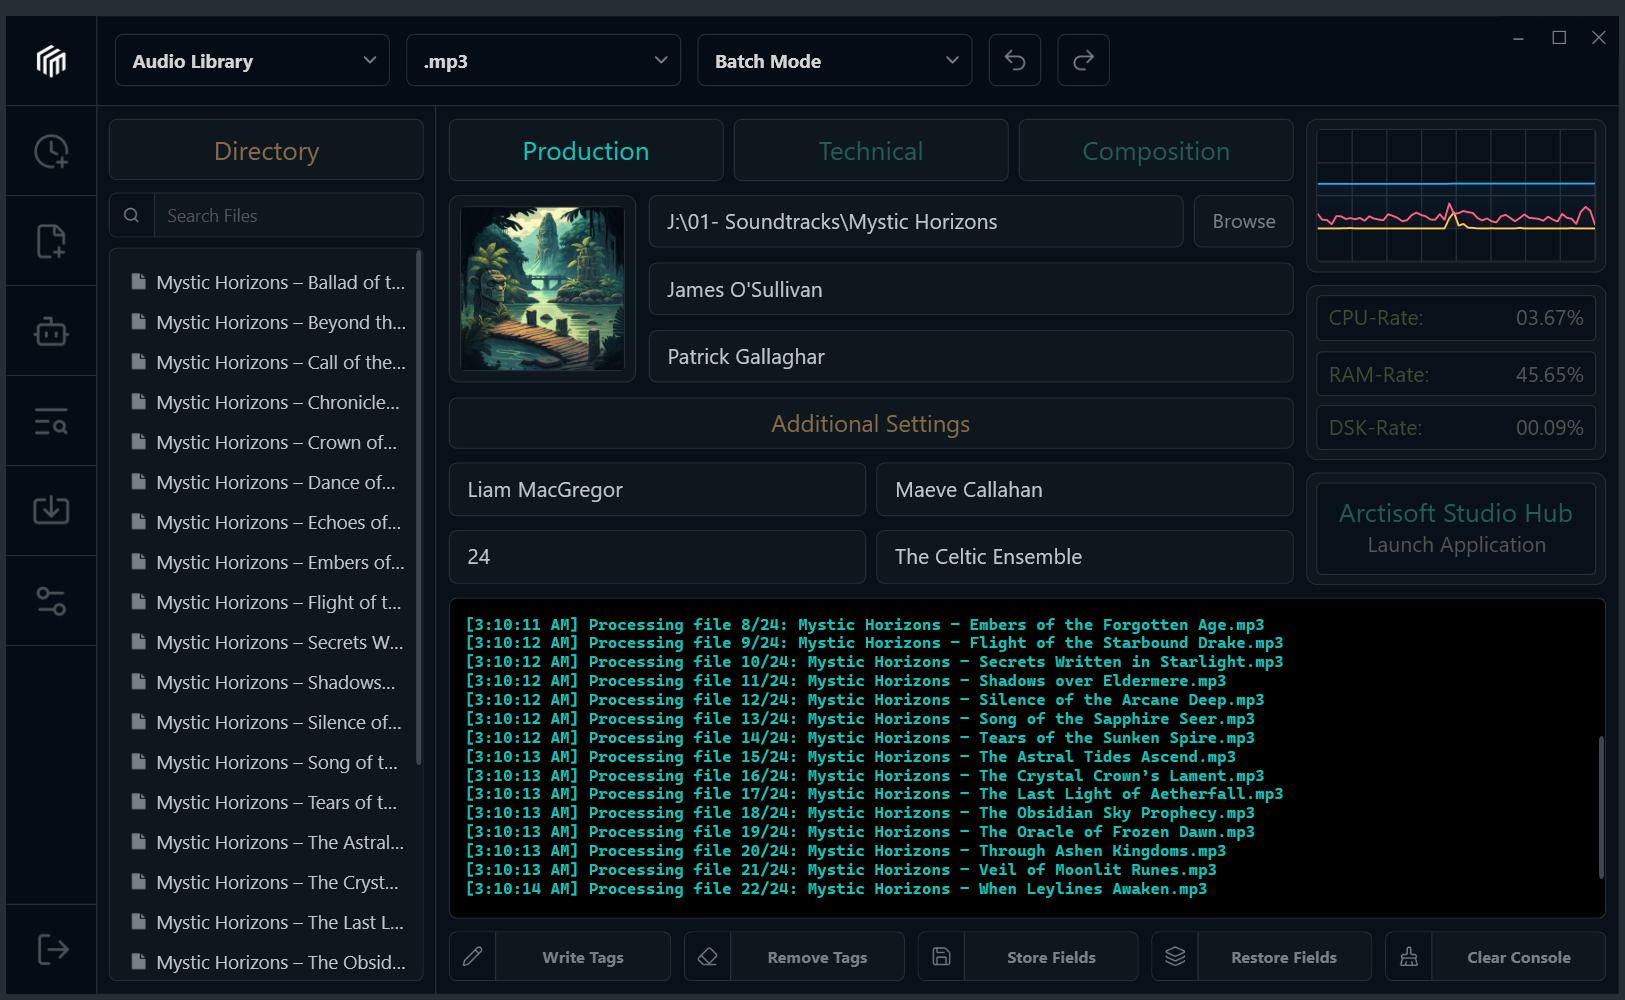
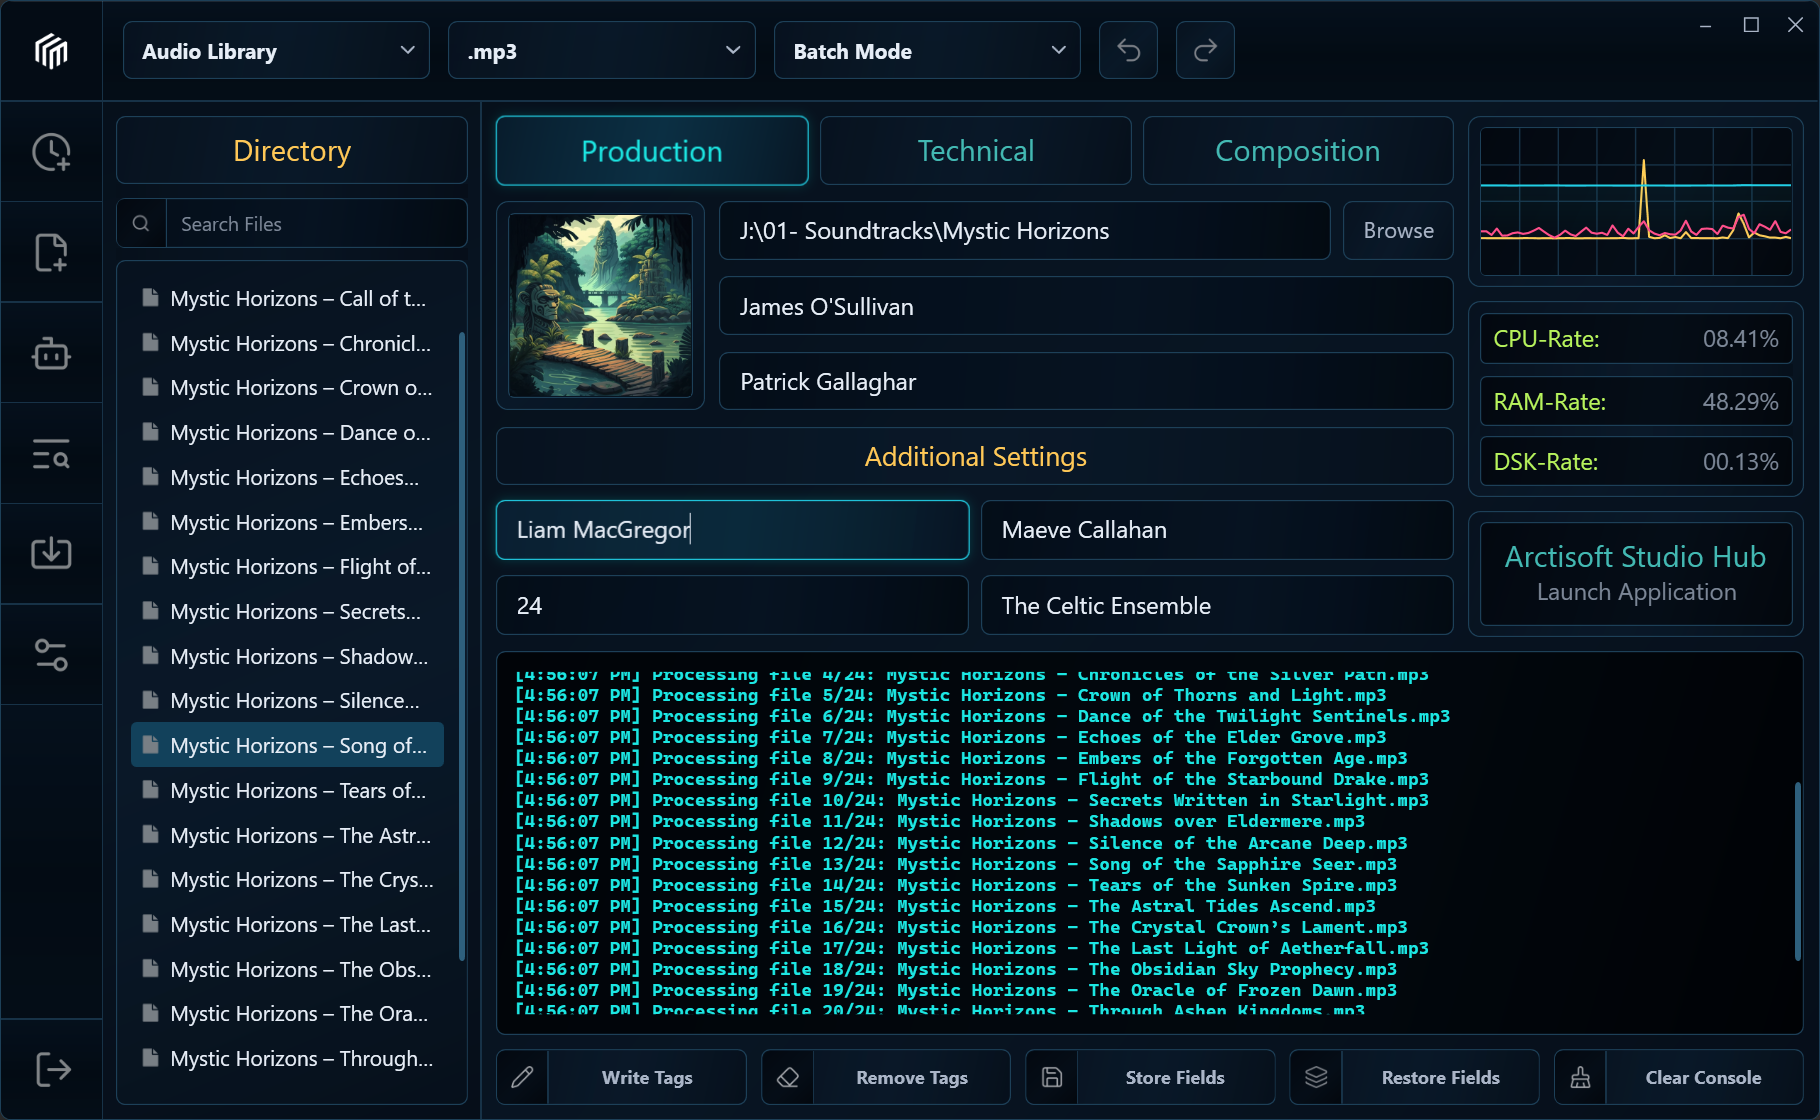
docs: correct README, update screenshots to 2-column layout
- Remove the standalone Cover Art Search section (the window was merged into Auto-Tag); document cover-art behaviour under Auto-Tag instead
- Fold album artwork into the Auto-Tag feature line; clarify artwork compression is configurable (default 500px / JPEG 85%)
- Add the missing Original mode to the Case Conversion table (four modes)
- Renumber the Table of Contents accordingly
- Screenshots: switch to a 2-column layout and add the Settings screenshot

Changed region(s): [[0.0, 0.0, 1.0, 1.0]]

diff --git a/README.md b/README.md
@@ -16,9 +16,8 @@
 
 - **Batch Processing:** Apply metadata changes to all files in a folder at once, with progress tracking in the console output.
 - **Per-File Mode:** Edit metadata for individual files separately, with automatic caching of unsaved changes when switching between files.
-- **Auto-Tag:** Automatically fetch metadata from AcoustID, MusicBrainz, and iTunes databases using audio fingerprinting technology.
-- **Album Artwork:** Embed cover images directly into files via drag-and-drop, with automatic compression to 500px and JPEG 85% quality.
-- **Cover Art Search:** Search for album artwork online by artist and album name, preview results, and embed directly into files.
+- **Auto-Tag:** Automatically fetch metadata and album artwork from AcoustID, MusicBrainz, and iTunes databases using audio fingerprinting technology.
+- **Album Artwork:** Embed cover images directly into files via drag-and-drop, with configurable compression and quality (default 500px, JPEG 85%).
 - **Field Storage:** Save up to 50 field configurations (including album artwork) with timestamps for quick reuse within the current session.
 - **Text Tools:** Find and replace text across metadata fields, convert case (Title Case, UPPERCASE, lowercase), and apply file pattern operations.
 - **File Pattern Tool:** Extract metadata from filenames using patterns like `%artist% - %album%`, or rename files based on their metadata tags.
@@ -73,42 +72,41 @@ Additionally, album artwork can be embedded directly into files through the thum
 6. [Auto-Tag Feature](#auto-tag-feature)
    - [Supported Databases](#supported-databases)
    - [How It Works](#how-it-works)
-7. [Cover Art Search](#cover-art-search)
-8. [Text Tools](#text-tools)
+7. [Text Tools](#text-tools)
    - [Find & Replace](#find--replace)
    - [Case Conversion](#case-conversion)
    - [File Pattern (within Text Tools)](#file-pattern-within-text-tools)
-9. [File Pattern Tool](#file-pattern-tool)
+8. [File Pattern Tool](#file-pattern-tool)
    - [Tag from Filename](#tag-from-filename)
    - [Filename from Tags](#filename-from-tags)
-10. [CSV Export and Import](#csv-export-and-import)
-    - [Export](#export)
-    - [Import](#import)
-11. [Action Buttons](#action-buttons)
-12. [Undo and Redo](#undo-and-redo)
+9. [CSV Export and Import](#csv-export-and-import)
+   - [Export](#export)
+   - [Import](#import)
+10. [Action Buttons](#action-buttons)
+11. [Undo and Redo](#undo-and-redo)
     - [How It Works](#how-it-works-1)
     - [What Gets Restored](#what-gets-restored)
     - [Console Feedback](#console-feedback)
-13. [Field Storage System](#field-storage-system)
-14. [Settings](#settings)
+12. [Field Storage System](#field-storage-system)
+13. [Settings](#settings)
     - [ID3v2 Version](#id3v2-version)
     - [Text Encoding](#text-encoding)
     - [Cover Image Settings](#cover-image-settings)
     - [Tag Retention](#tag-retention)
     - [Auto-Tag Settings](#auto-tag-settings)
-15. [Cloud Settings Sync](#cloud-settings-sync)
+14. [Cloud Settings Sync](#cloud-settings-sync)
     - [How It Works](#how-it-works-2)
     - [Synced Settings](#synced-settings)
-16. [Keyboard Shortcuts](#keyboard-shortcuts)
-17. [Sidebar](#sidebar)
-18. [Context Menus](#context-menus)
+15. [Keyboard Shortcuts](#keyboard-shortcuts)
+16. [Sidebar](#sidebar)
+17. [Context Menus](#context-menus)
     - [Text Fields](#text-fields)
     - [Console Output](#console-output)
     - [Thumbnail Panel](#thumbnail-panel)
     - [Path Bar](#path-bar)
     - [File List (Per-File Mode only)](#file-list-per-file-mode-only)
-19. [Copyright](#copyright)
-20. [Screenshots](#screenshots)
+18. [Copyright](#copyright)
+19. [Screenshots](#screenshots)
 
 ## **System Requirements**
 
@@ -253,21 +251,11 @@ The Auto-Tag feature searches the following sources in order until a match is fo
 
 **Note:** Auto-Tag uses AcoustID fingerprinting technology (powered by Chromaprint) to identify audio files by their acoustic signature. This provides more accurate results than filename-based searches. iTunes is used as a fallback for cover art and metadata enrichment.
 
+**Cover Art:** During an Auto-Tag search, album artwork is fetched from the matched release and the MusicBrainz Cover Art Archive. When several covers are found, they are shown as selectable thumbnails and the first is applied automatically; click another thumbnail to choose it instead.
+
 **Cancel:** Press `Escape` at any time to cancel an active Auto-Tag search.
 
 **Auto-Tag All:** When the Auto-Tag Scope setting is set to "All Files in List" and you are in Per-File Mode, clicking Auto-Tag will process every file in the list sequentially. A 2-second delay is applied between files for database rate limiting. Progress is shown in the console for each file.
-
-## **Cover Art Search**
-
-The Cover Art Search window lets you find and embed album artwork by searching online. Open it from the sidebar or via the thumbnail panel context menu.
-
-1. Enter the **Artist** and **Album** name in the search fields
-2. Click **Search** to query cover art from online sources
-3. Browse the results displayed as thumbnail previews
-4. Click a result to preview it at full size
-5. Click **Apply** to embed the selected artwork into your files
-
-The search uses MusicBrainz to find high-quality cover art. Results are displayed with preview thumbnails so you can compare options before applying.
 
 ## **Text Tools**
 
@@ -287,6 +275,7 @@ Convert text case across metadata fields. Four modes are available:
 
 | Mode | Example |
 |------|---------|
+| **Original** | `hello world` stays `hello world` (no change) |
 | **Title Case** | `hello world` becomes `Hello World` |
 | **UPPERCASE** | `hello world` becomes `HELLO WORLD` |
 | **lowercase** | `HELLO WORLD` becomes `hello world` |
@@ -539,11 +528,17 @@ If you'd like a preview of MetaEdit Plus before downloading, the screenshots bel
   <tr>
     <th>MetaEdit Plus - Initial View</th>
     <th>MetaEdit Plus - Directory Scan</th>
-    <th>MetaEdit Plus - Tag Generation</th>
   </tr>
   <tr>
-    <td><a href="https://github.com/BerndHagen/MetaEdit-Plus-Smart-Tag-Editor/raw/main/images/screenshot-startup.png"><img src="https://github.com/BerndHagen/MetaEdit-Plus-Smart-Tag-Editor/raw/main/images/screenshot-startup.png" alt="Initial View" width="300"></a></td>
-    <td><a href="https://github.com/BerndHagen/MetaEdit-Plus-Smart-Tag-Editor/raw/main/images/screenshot-inputs.png"><img src="https://github.com/BerndHagen/MetaEdit-Plus-Smart-Tag-Editor/raw/main/images/screenshot-inputs.png" alt="Directory Scan" width="300"></a></td>
-    <td><a href="https://github.com/BerndHagen/MetaEdit-Plus-Smart-Tag-Editor/raw/main/images/screenshot-generate.png"><img src="https://github.com/BerndHagen/MetaEdit-Plus-Smart-Tag-Editor/raw/main/images/screenshot-generate.png" alt="Tag Generation" width="300"></a></td>
+    <td><a href="https://github.com/BerndHagen/MetaEdit-Plus-Smart-Tag-Editor/raw/main/images/screenshot-startup.png"><img src="https://github.com/BerndHagen/MetaEdit-Plus-Smart-Tag-Editor/raw/main/images/screenshot-startup.png" alt="Initial View" width="450"></a></td>
+    <td><a href="https://github.com/BerndHagen/MetaEdit-Plus-Smart-Tag-Editor/raw/main/images/screenshot-inputs.png"><img src="https://github.com/BerndHagen/MetaEdit-Plus-Smart-Tag-Editor/raw/main/images/screenshot-inputs.png" alt="Directory Scan" width="450"></a></td>
+  </tr>
+  <tr>
+    <th>MetaEdit Plus - Tag Generation</th>
+    <th>MetaEdit Plus - Settings</th>
+  </tr>
+  <tr>
+    <td><a href="https://github.com/BerndHagen/MetaEdit-Plus-Smart-Tag-Editor/raw/main/images/screenshot-generate.png"><img src="https://github.com/BerndHagen/MetaEdit-Plus-Smart-Tag-Editor/raw/main/images/screenshot-generate.png" alt="Tag Generation" width="450"></a></td>
+    <td><a href="https://github.com/BerndHagen/MetaEdit-Plus-Smart-Tag-Editor/raw/main/images/screenshot-settings.png"><img src="https://github.com/BerndHagen/MetaEdit-Plus-Smart-Tag-Editor/raw/main/images/screenshot-settings.png" alt="Settings" width="450"></a></td>
   </tr>
 </table>
